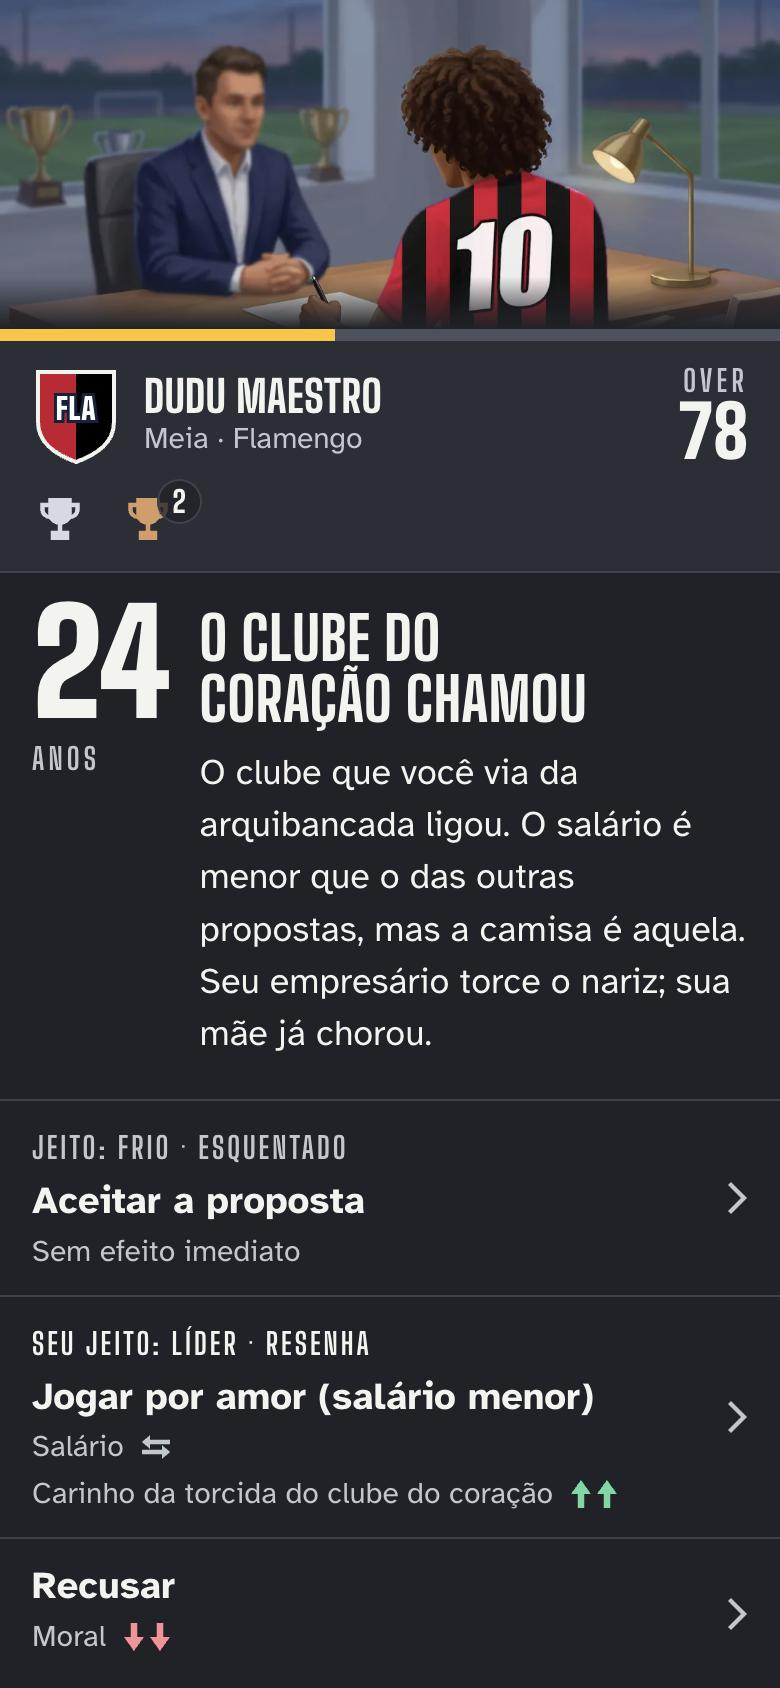
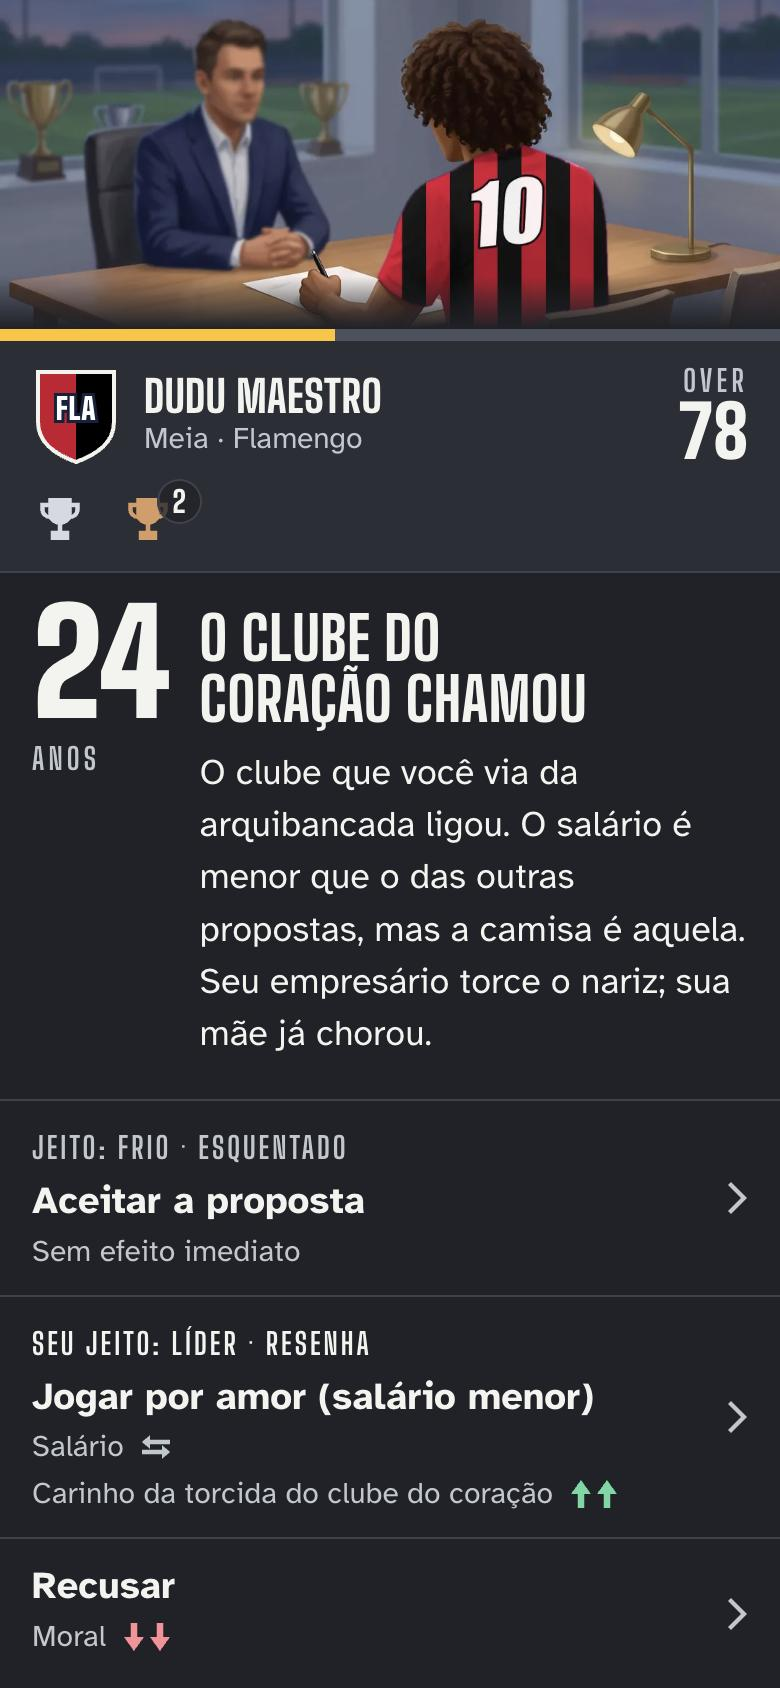
fix(T49): número da camisa inteiro e no alto das costas na cena de amostra

Changed region(s): [[0.0, 0.0, 1.0, 0.2156]]

diff --git a/src/ui/screens/Decision.css b/src/ui/screens/Decision.css
@@ -16,7 +16,7 @@
   flex: 0 1 calc(min(100vw, 30rem) * 0.5);
   min-block-size: 7rem;
   object-fit: cover;
-  object-position: 50% 6%;
+  object-position: 50% 10%;
   /* a máscara só costura a emenda com o painel */
   -webkit-mask-image: linear-gradient(to bottom, #000 84%, transparent);
   mask-image: linear-gradient(to bottom, #000 84%, transparent);
